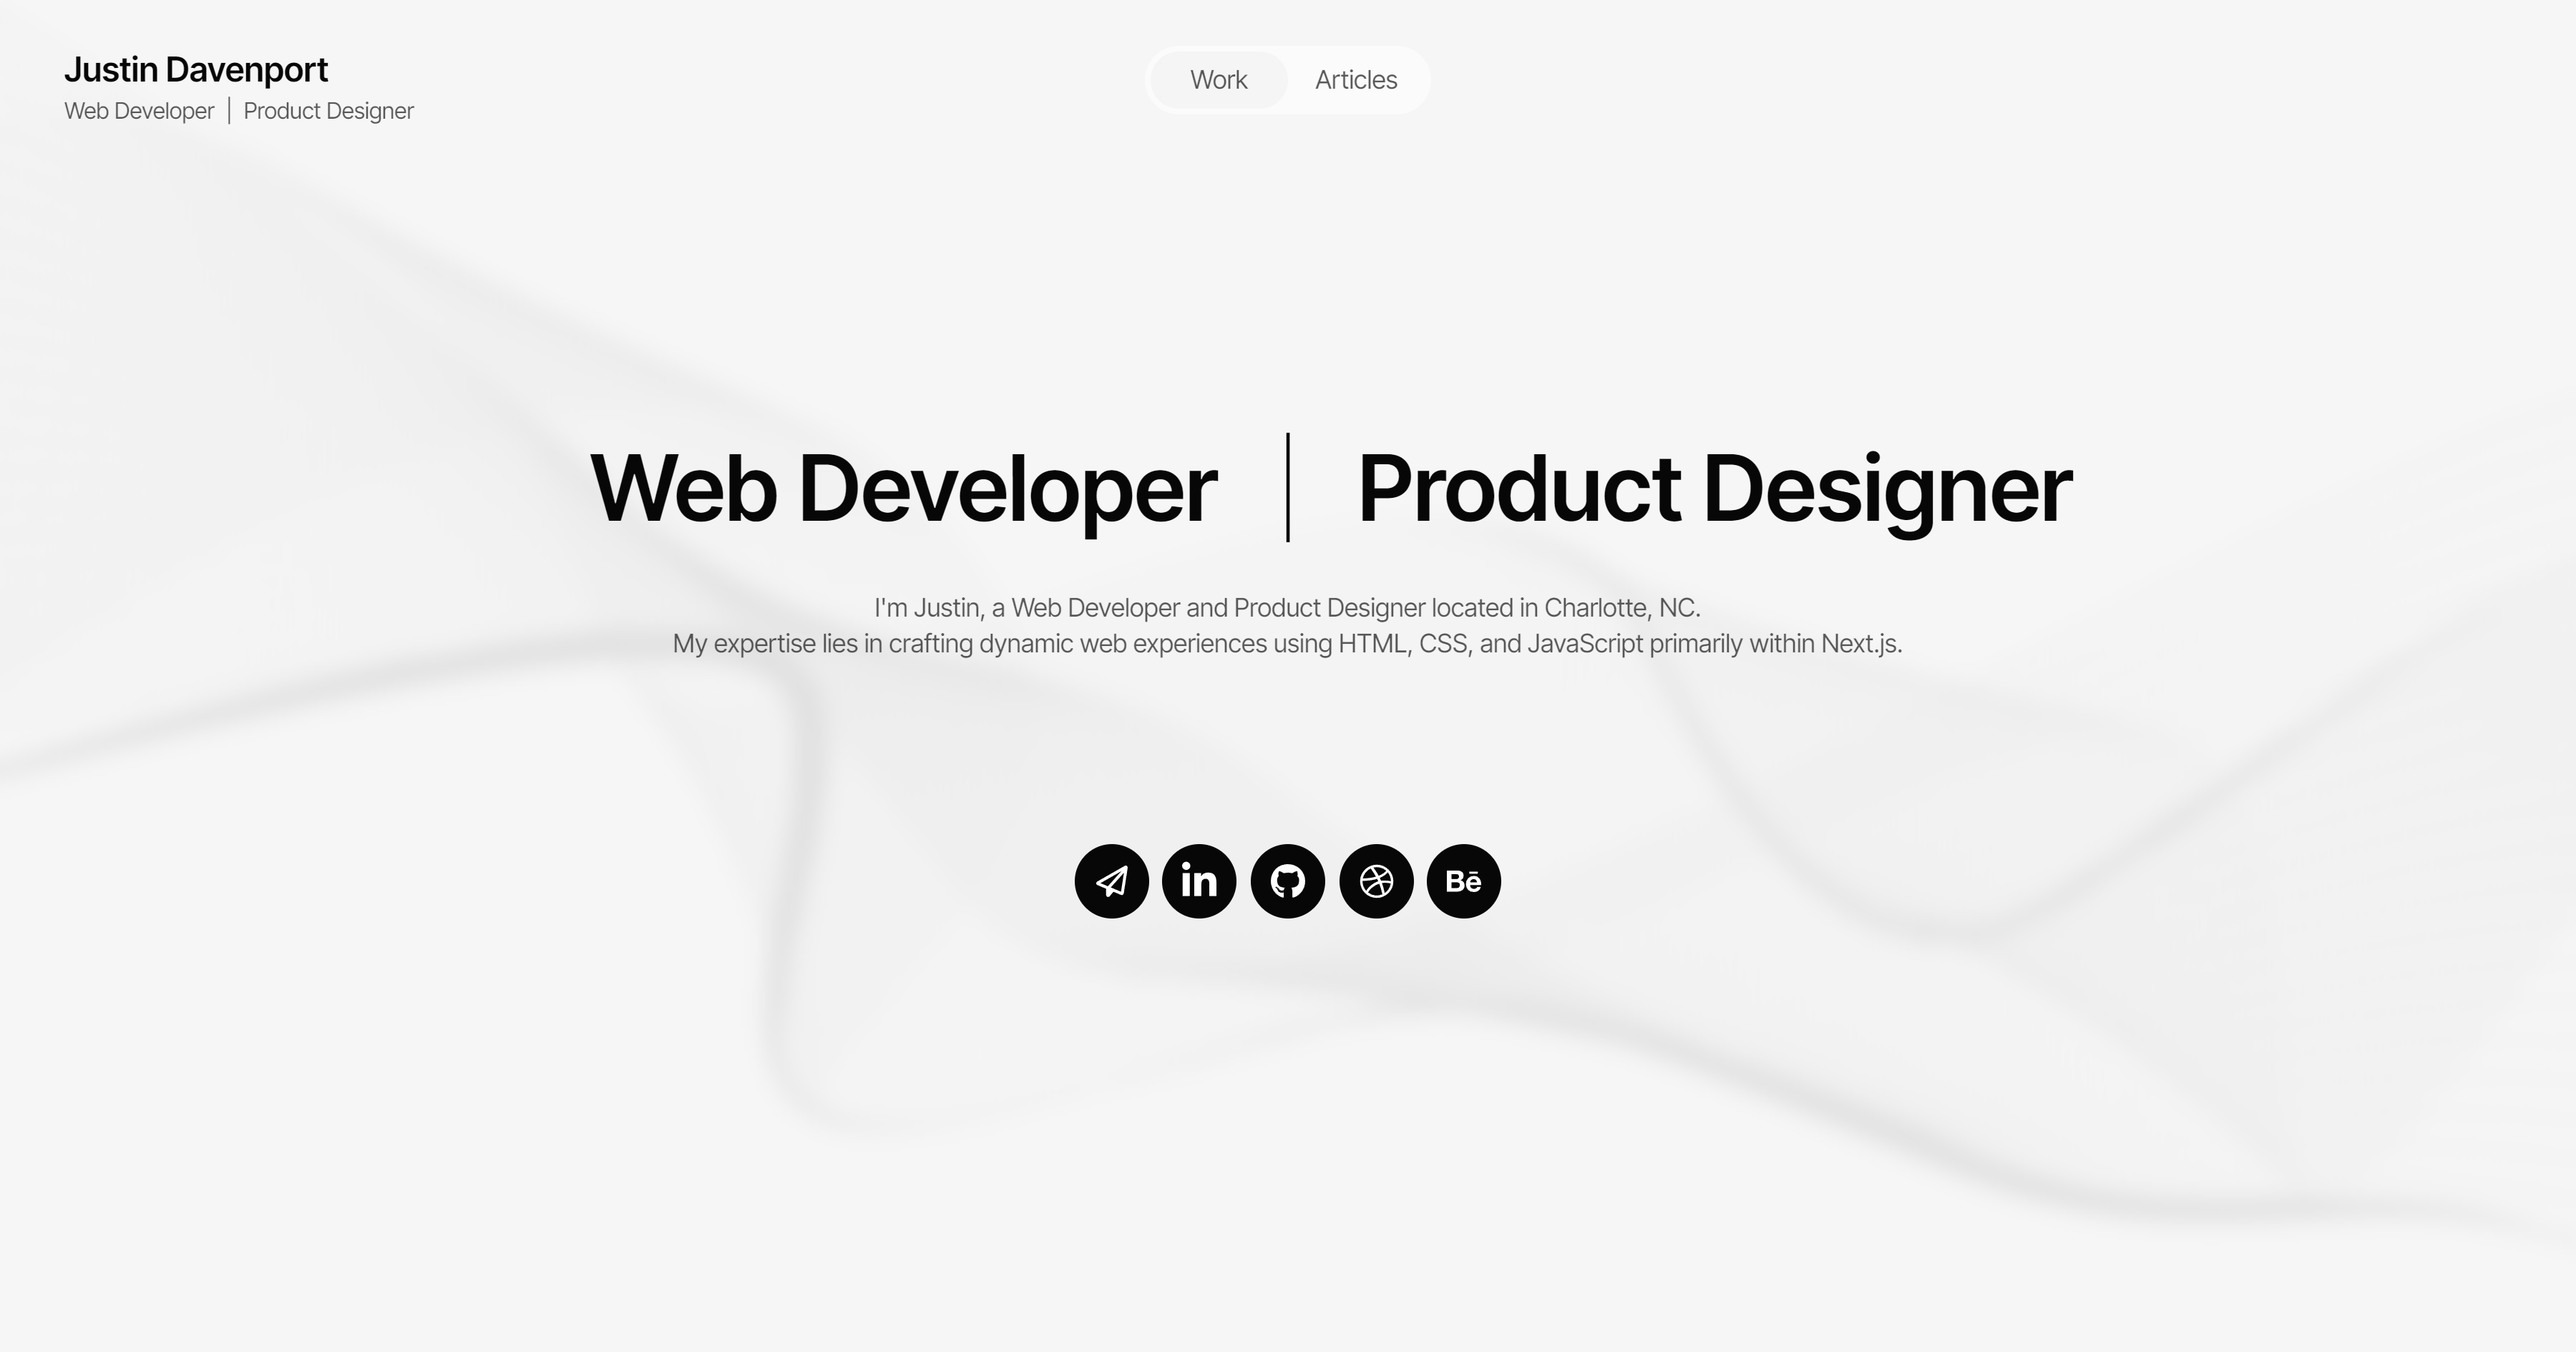
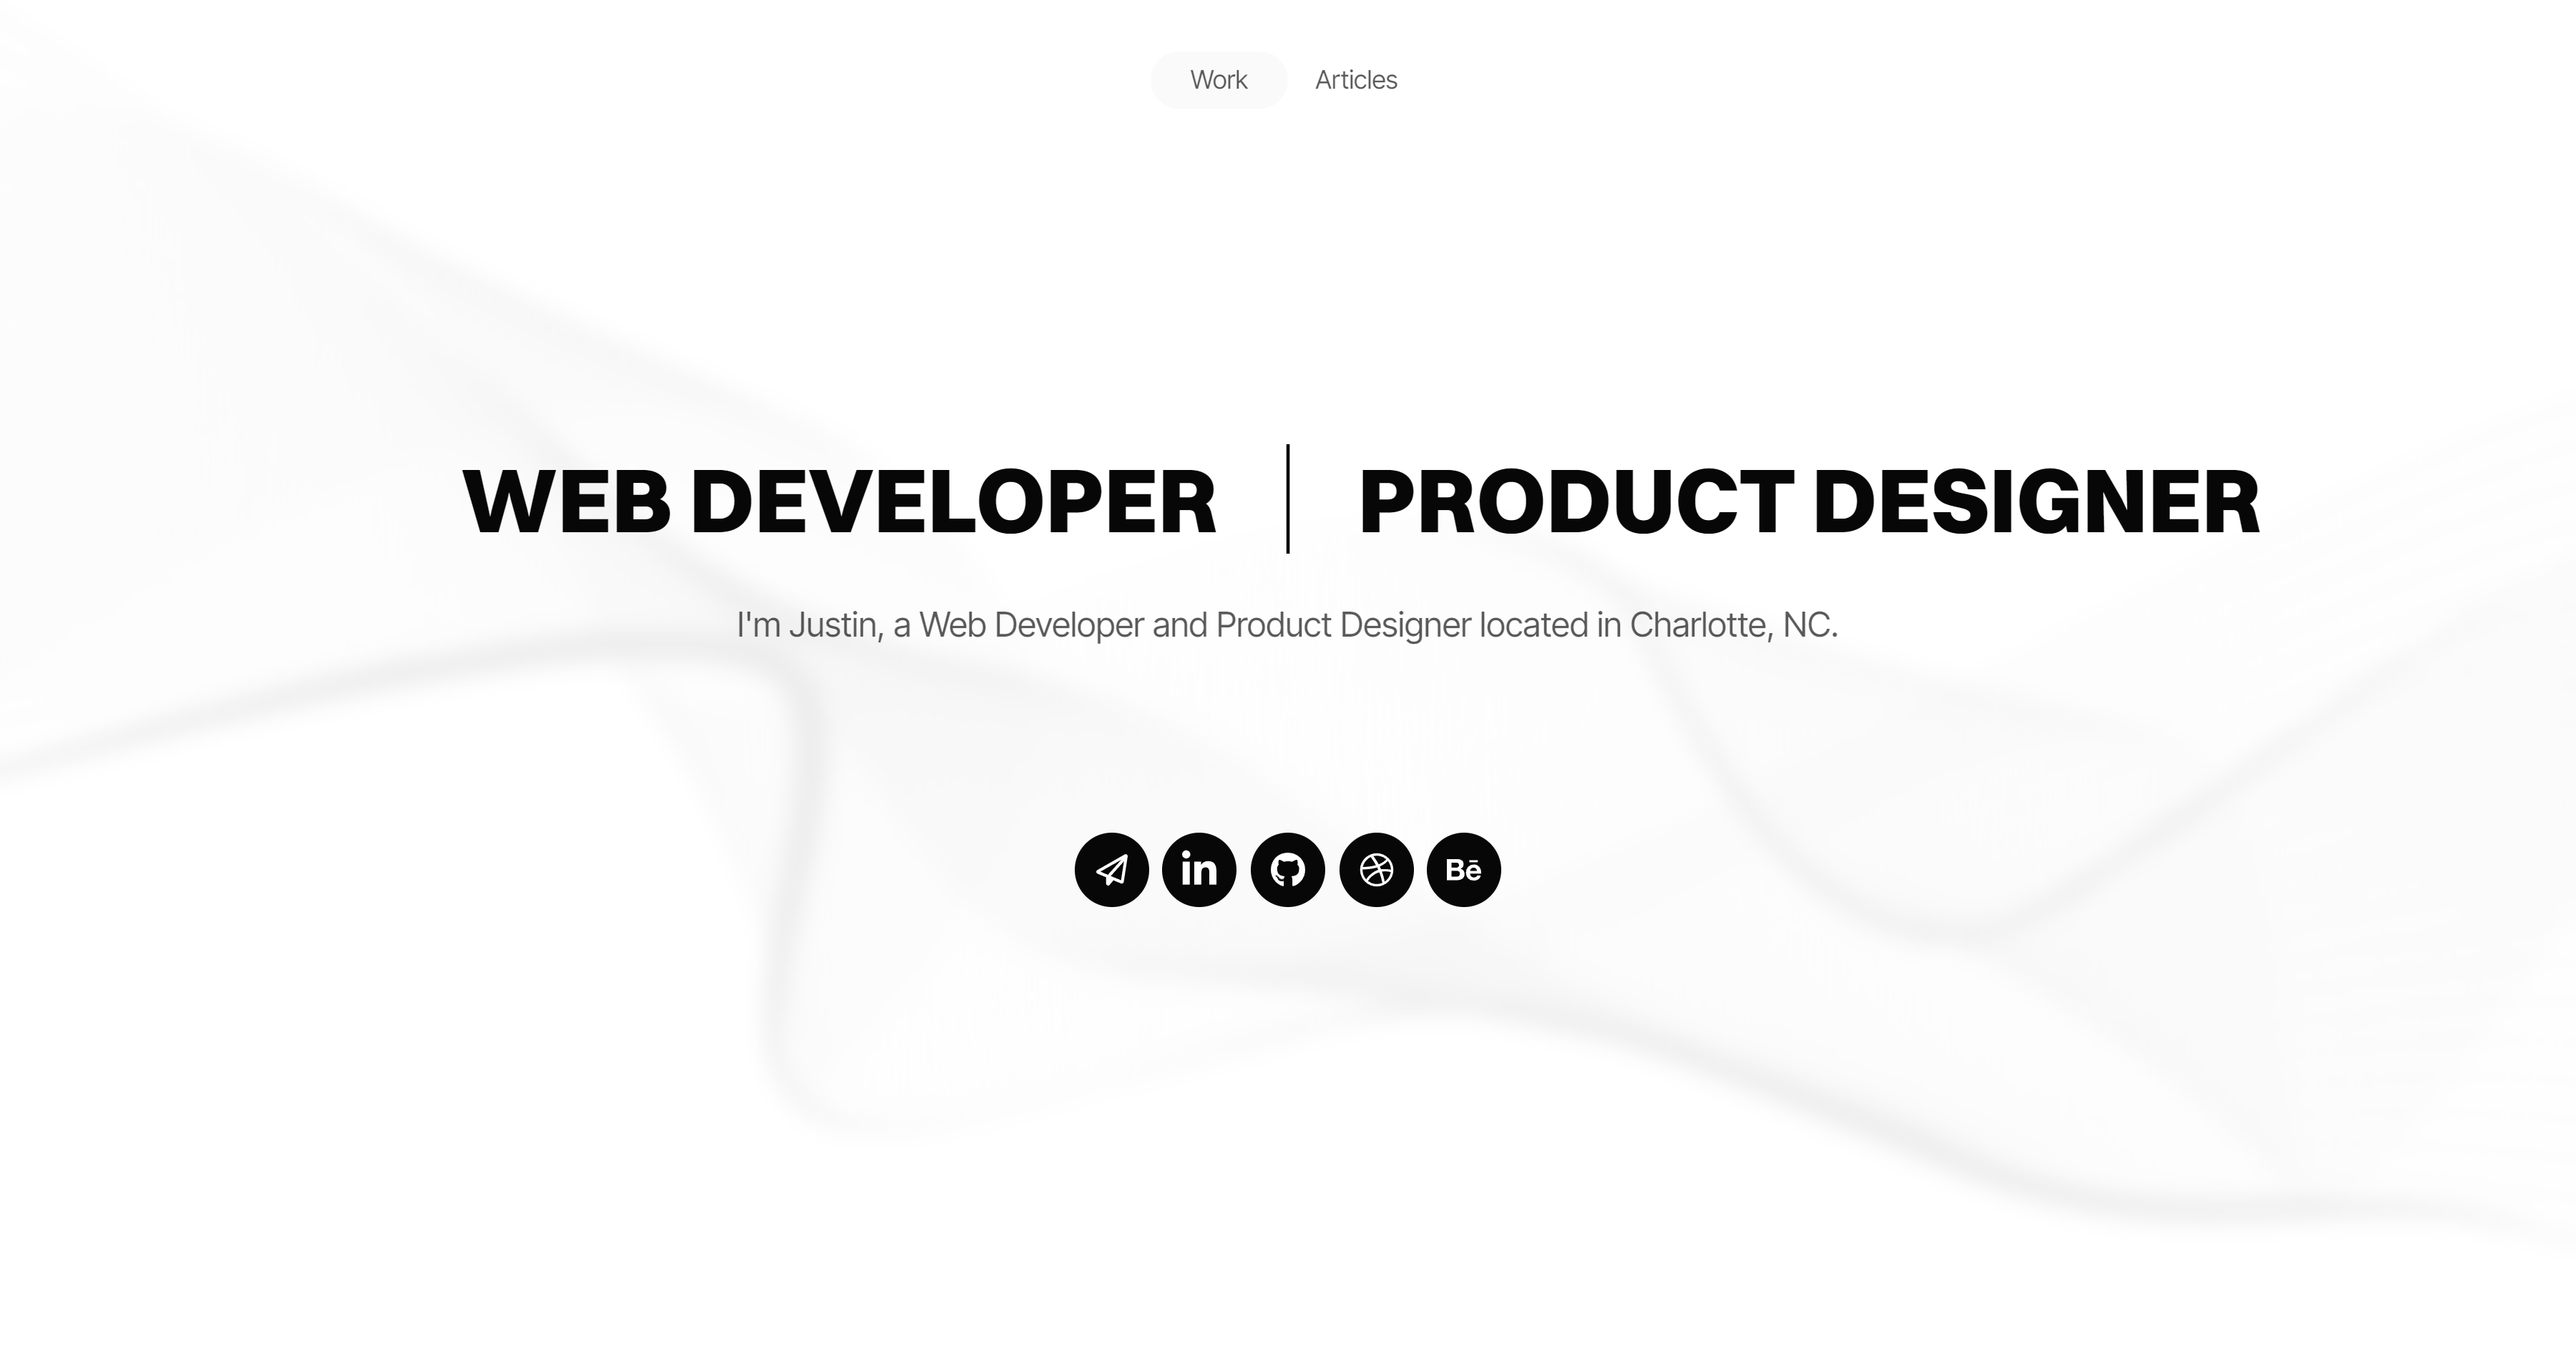
.

diff --git a/src/app/page.tsx b/src/app/page.tsx
@@ -65,12 +65,12 @@ export default function Home() {
 
   return (
     <main>
-      <div className="logo">
+      {/* <div className="logo">
         <span style={{ fontWeight: 600 }}>Justin Davenport</span>
         <p style={{ fontSize: "clamp(12px, 2vw, 16px)" }}>
           Web Developer&ensp;|&ensp;Product Designer
         </p>
-      </div>
+      </div> */}
 
       <div className="background"></div>
       <div className="overlay"></div>
@@ -107,17 +107,20 @@ export default function Home() {
           >
             <div className="text-holder">
               <div className="splash-title-holder">
-                <h1 className="splash-title-right">Web Developer</h1>
+                {/* <h1 className="splash-title-right">Web Developer</h1> */}
+                <h1 className="splash-title-right">WEB DEVELOPER</h1>
                 <h1 className="divider">
                   <b style={{ fontWeight: "200", lineHeight: "1" }}>|</b>
                 </h1>
-                <h1 className="splash-title-left">Product Designer</h1>
+                {/* <h1 className="splash-title-left">Product Designer</h1> */}
+                <h1 className="splash-title-left">PRODUCT DESIGNER</h1>
               </div>
               <p className="splash-p">
                 I&apos;m Justin, a Web Developer and Product Designer located in
-                Charlotte, NC. <br className="divider" />
+                Charlotte, NC.
+                {/* <br className="divider" />
                 My expertise lies in crafting dynamic web experiences using
-                HTML, CSS, and JavaScript primarily within Next.js.
+                HTML, CSS, and JavaScript primarily within Next.js. */}
               </p>
               <div
                 style={{
@@ -223,6 +226,16 @@ export default function Home() {
                   </Link>
                 </div>
               </div>
+
+              {/* <svg
+                className="pulse"
+                xmlns="http://www.w3.org/2000/svg"
+                height="28"
+                width="24"
+                viewBox="0 0 512 512"
+              >
+                <path d="M256 464a208 208 0 1 1 0-416 208 208 0 1 1 0 416zM256 0a256 256 0 1 0 0 512A256 256 0 1 0 256 0zM376.9 294.6c4.5-4.2 7.1-10.1 7.1-16.3c0-12.3-10-22.3-22.3-22.3H304V160c0-17.7-14.3-32-32-32l-32 0c-17.7 0-32 14.3-32 32v96H150.3C138 256 128 266 128 278.3c0 6.2 2.6 12.1 7.1 16.3l107.1 99.9c3.8 3.5 8.7 5.5 13.8 5.5s10.1-2 13.8-5.5l107.1-99.9z" />
+              </svg> */}
             </div>
           </div>
 

diff --git a/src/app/globals.css b/src/app/globals.css
@@ -12,7 +12,7 @@
     width: 100%;
     min-height: 100vh;
     position: relative;
-    background: whitesmoke;
+    background: white;
   }
 
   * {
@@ -32,7 +32,7 @@
     background-repeat: no-repeat;
     background-size: 100% 100%;
     position: fixed;
-    opacity: 0.085;
+    opacity: 0.075;
     z-index: 1;
   }
 
@@ -54,7 +54,10 @@
   h1 {
     font-weight: 600;
     line-height: 1;
-    font-size: clamp(42px, 4vw, 64px);
+    font-size: clamp(38px, 4vw, 64px);
+    font-family: "Switzer", sans-serif;
+
+    font-weight: 800;
   }
 
   h2 {
@@ -106,9 +109,9 @@
 
   .nav-slider {
     position: absolute;
-    backdrop-filter: blur(8px);
-    -webkit-backdrop-filter: blur(8px);
-    background: #07070708;
+    backdrop-filter: blur(8px) saturate(200%);
+    -webkit-backdrop-filter: blur(8px) saturate(200%);
+    background: #f5f5f580;
     border-radius: 100rem;
     height: 2.5rem;
     width: 6rem;
@@ -121,9 +124,9 @@
     justify-content: center;
     align-items: center;
     min-width: fit-content;
-    backdrop-filter: blur(8px);
-    -webkit-backdrop-filter: blur(8px);
-    background: #ffffff80;
+    backdrop-filter: blur(8px) saturate(200%);
+    -webkit-backdrop-filter: blur(8px) saturate(200%);
+    background: #ffffff40;
     border-radius: 100rem;
   }
 
@@ -174,6 +177,24 @@
     animation: fade 500ms ease-in-out forwards;
   }
 
+  .pulse {
+    animation: pulsing 2500ms ease-in-out infinite;
+  }
+
+  @keyframes pulsing {
+    0% {
+      scale: 0.8;
+    }
+
+    50% {
+      scale: 1.25;
+    }
+
+    100% {
+      scale: 0.8;
+    }
+  }
+
   @keyframes fade {
     0% {
       opacity: 0;
@@ -202,7 +223,7 @@
     align-items: center;
     backdrop-filter: blur(8px);
     -webkit-backdrop-filter: blur(8px);
-    background: #ffffff80;
+    background: #f5f5f580;
     border-radius: 1rem;
     transition: 150ms linear;
   }
@@ -296,6 +317,7 @@
   .splash-p {
     margin-top: 2rem;
     margin-bottom: 4rem;
+    font-size: clamp(18px, 2vw, 24px);
   }
 
   .footer {
